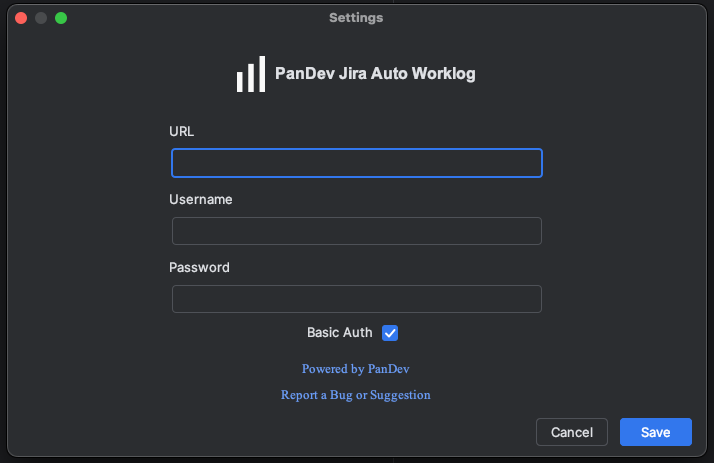
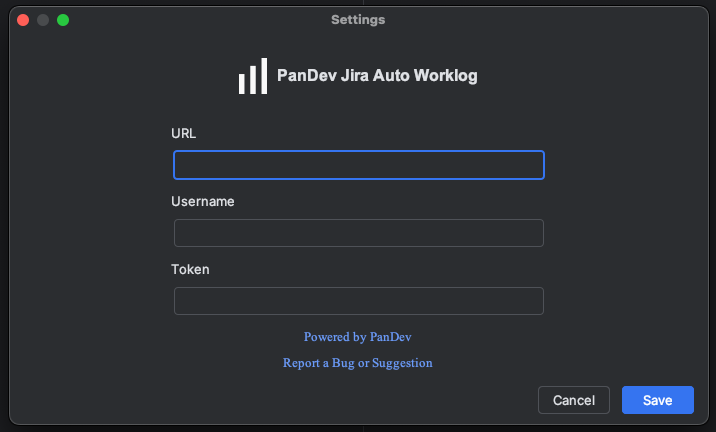
feature/PDM-645 - заменил описание, поднял версию, пофиксил UI

diff --git a/src/main/java/kz/pandev/jira_auto_worklog/clients/ApiClient.java b/src/main/java/kz/pandev/jira_auto_worklog/clients/ApiClient.java
@@ -96,7 +96,7 @@ public class ApiClient {
         HttpRequest request = requestBuilder.build();
 
             HttpResponse<String> response = httpClient.send(request, HttpResponse.BodyHandlers.ofString());
-            if(response.statusCode() != 200) {
+            if (response.statusCode() != 200) {
                 throw new HttpResponseException(response.statusCode(), response.body());
             }
     }

diff --git a/README.md b/README.md
@@ -21,8 +21,7 @@ A plugin for JetBrains products that automatically tracks your work time and pub
 2. Enter your Jira credentials:
     - Jira URL
     - Username (your Jira email)
-    - Password (or API token)
-    - Enable Basic Auth if required
+    - Token (your API token)
 3. Click "Save" to apply settings
 
 ![login_view](screenshots/login.png)
